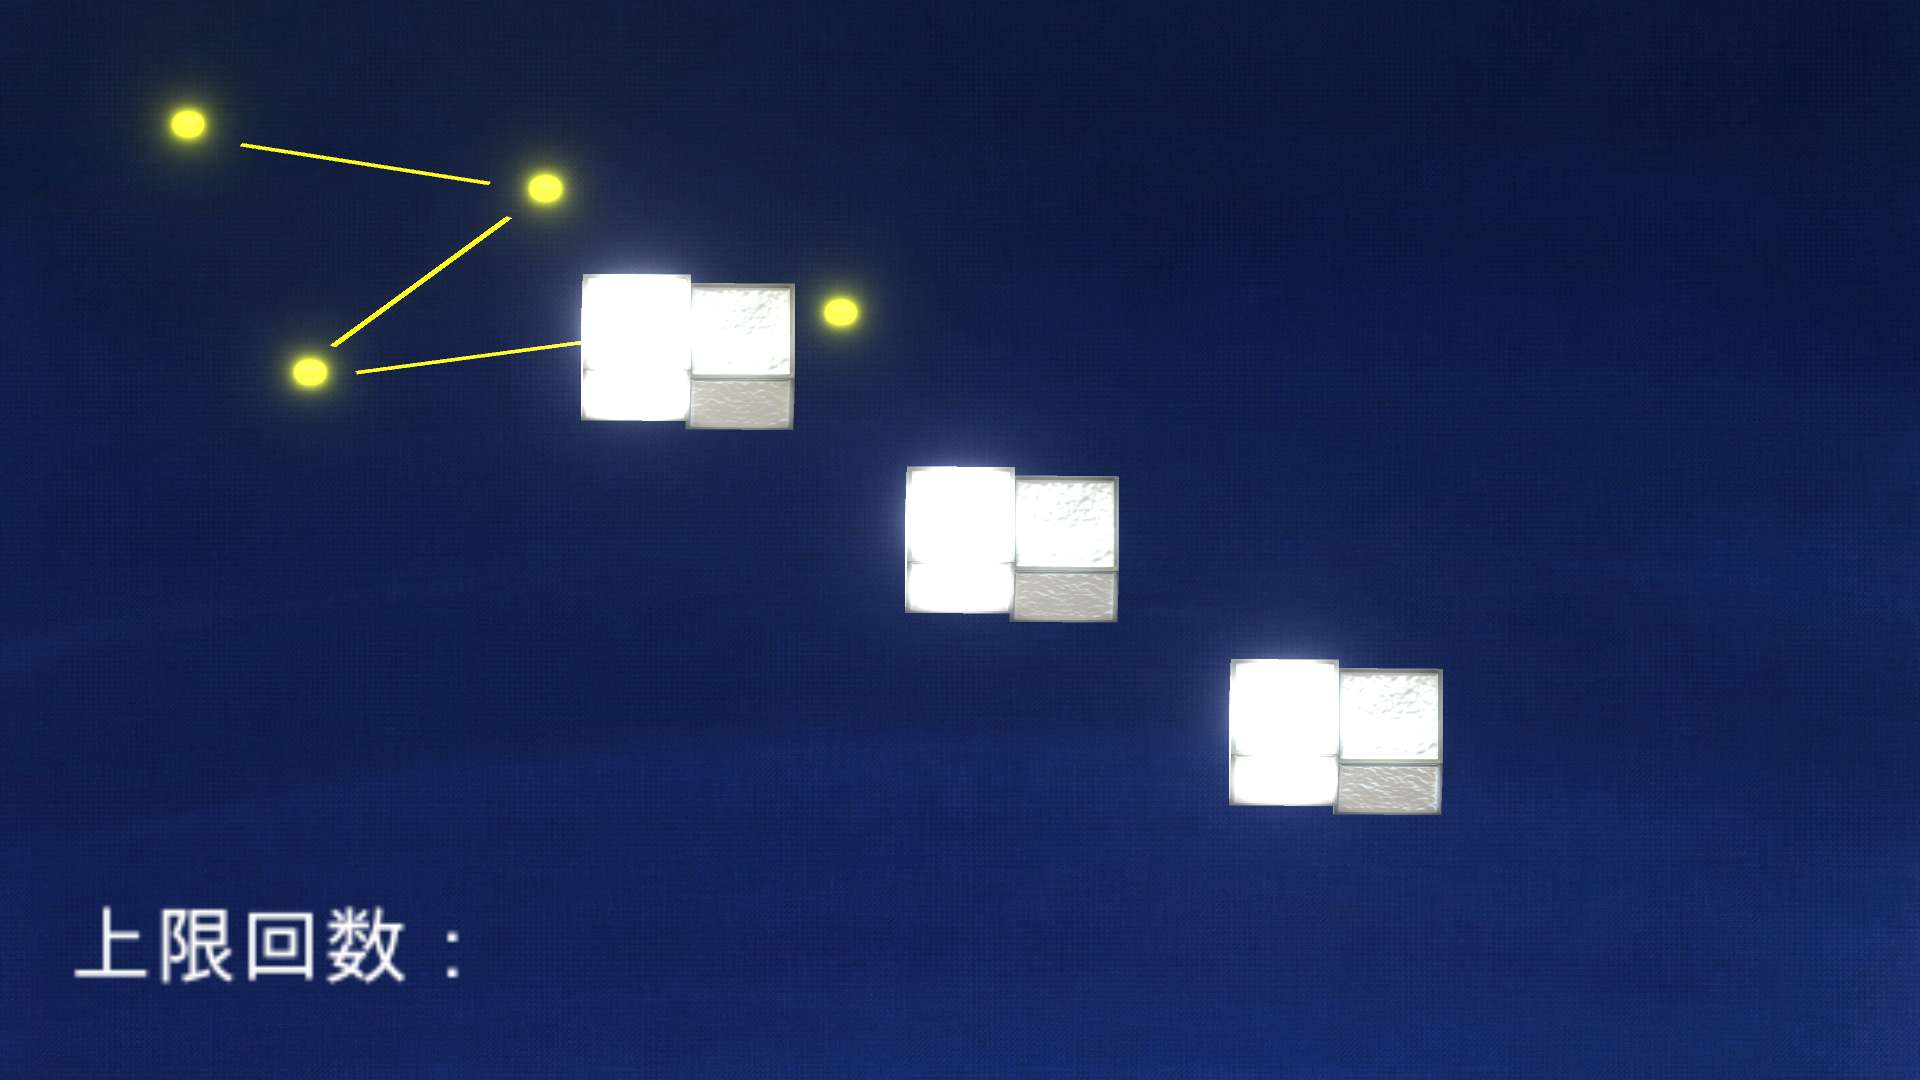
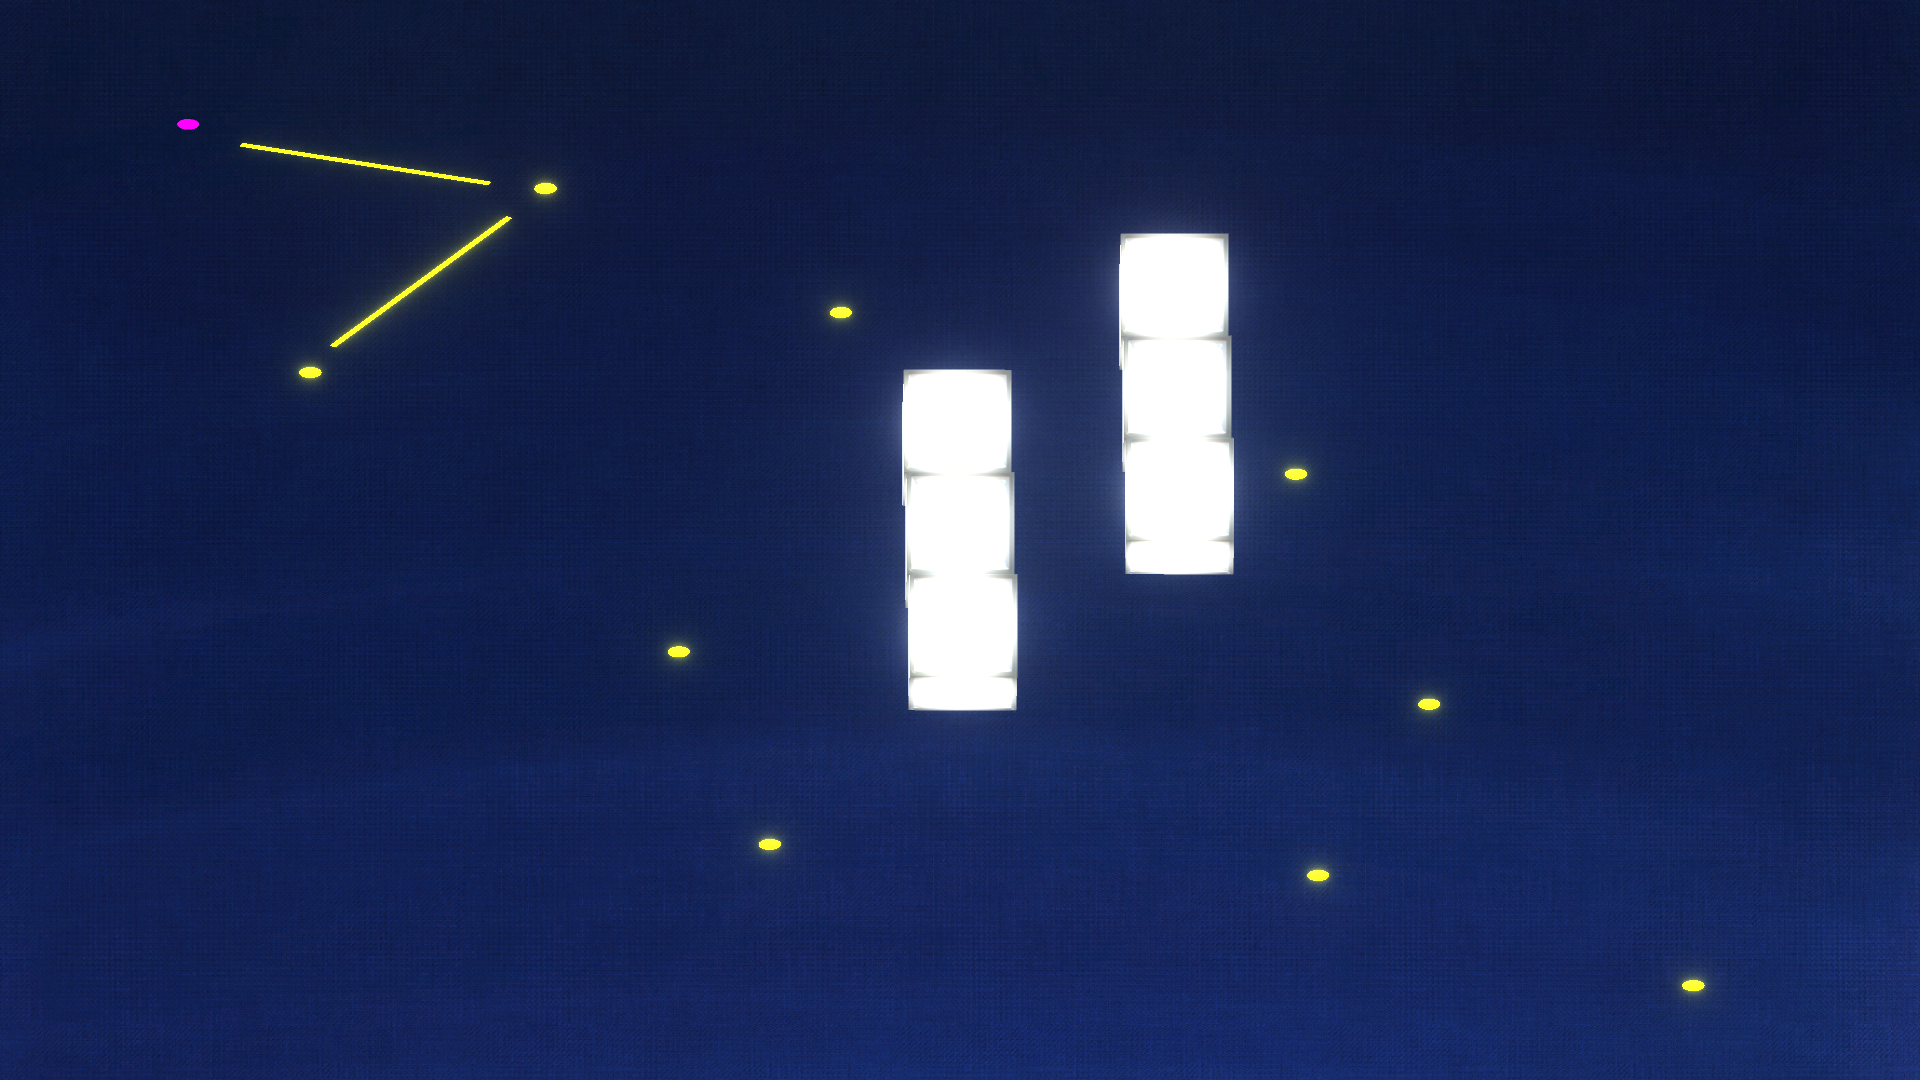
エフェクトが入ったよ！！！

diff --git a/Assets/Particle/Flash/flashcube.cs b/Assets/Particle/Flash/flashcube.cs
@@ -2,50 +2,58 @@
 using System.Collections.Generic;
 using UnityEngine;
 
-public class flashcube : MonoBehaviour {
+public class flashcube : MonoBehaviour
+{
 
     //GameObject Setblock;
     Blocks SetBlock;
     GameMain SetGameMain;
-    bool oneroot;
-	// Use this for initialization
-	void Start () {
-        oneroot = false;
+
+    ParticleSystem ppp;
+    private bool oneroot = true;
+
+
+    // Use this for initialization
+    void Start()
+    {
+
         SetBlock = GetComponentInParent<Blocks>();
         SetGameMain = GameObject.Find("MainSceneScript").GetComponent<GameMain>();
         for (int i = 0; i < this.transform.childCount; i++)
         {
-            this.transform.GetChild(i).gameObject.SetActive(false);
+            //this.transform.GetChild(i).gameObject.SetActive(false);
+            ppp = this.transform.GetChild(i).GetComponent<ParticleSystem>();
+            ppp.Stop();
 
         }
-        if (SetBlock.StartBlockFlg)
-        {
-                Destroy(GameObject.Find("FlashCubeParticle"));
-        }
 
-	}
-	
-	// Update is called once per frame
-	void Update () {
+
+    }
+
+    // Update is called once per frame
+    void Update()
+    {
         if (!SetBlock.StartBlockFlg)
         {
-            if (oneroot)
+            //if (oneroot)
+            //{
+            //    Destroy(GameObject.Find("FlashCubeParticle"));
+            //}
+
+
+            if (SetBlock.BurnFlg && SetGameMain.buttonup && oneroot)
             {
-                Destroy(GameObject.Find("FlashCubeParticle"));
+                for (int i = 0; i < this.transform.childCount; i++)
+                {
+                    //this.transform.GetChild(i).gameObject.SetActive(true);
+                    ppp = this.transform.GetChild(i).GetComponent<ParticleSystem>();
+                    ppp.Play();
+
+                }
+                oneroot = false;
             }
 
-
-            if (SetBlock.BurnFlg && SetGameMain.buttonup)
-            {
-                    for (int i = 0; i < this.transform.childCount; i++)
-                    {
-                        this.transform.GetChild(i).gameObject.SetActive(true);
-
-                    }
-                    oneroot = true;
-            }
-           
         }
 
-	}
+    }
 }
